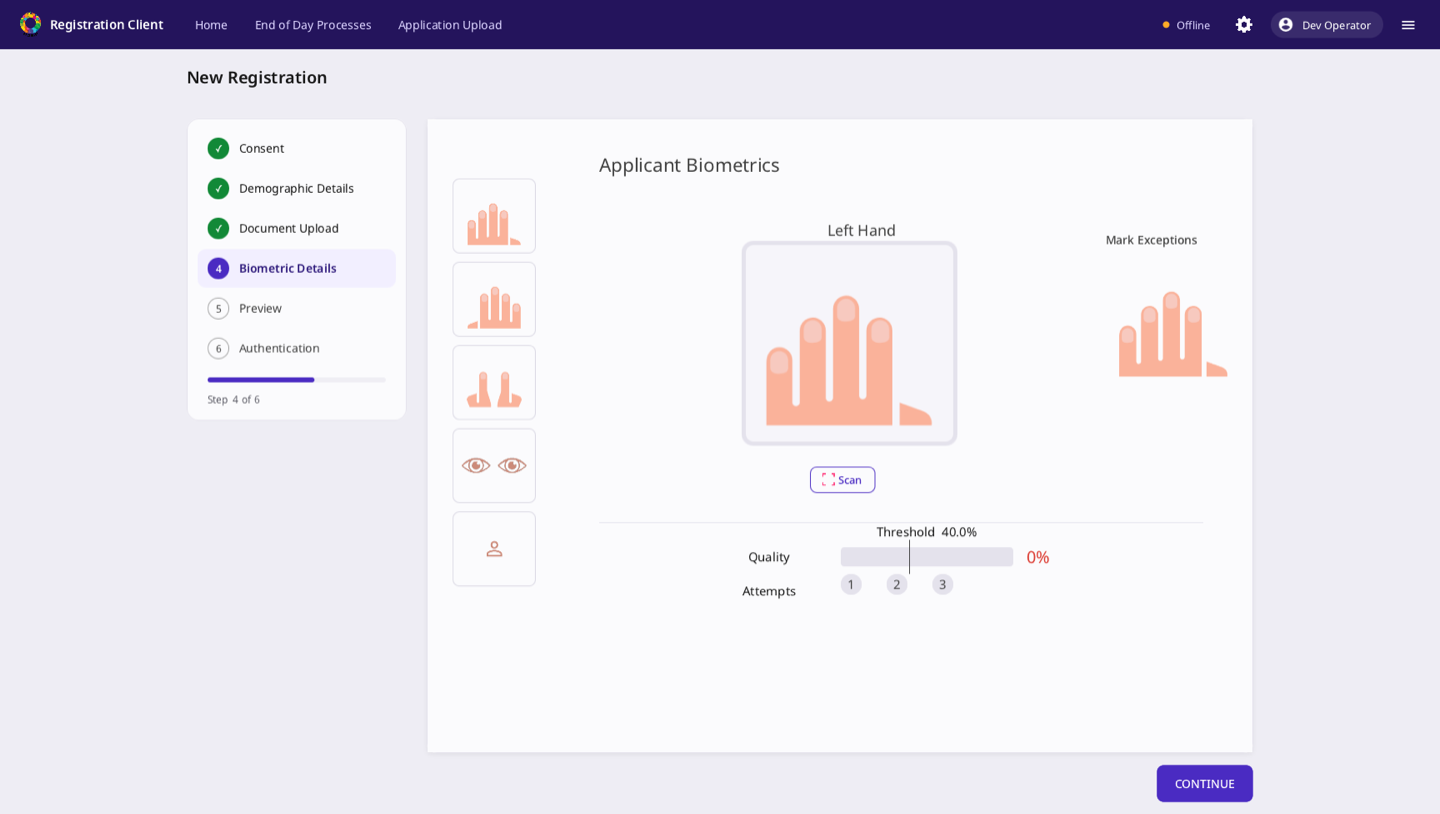
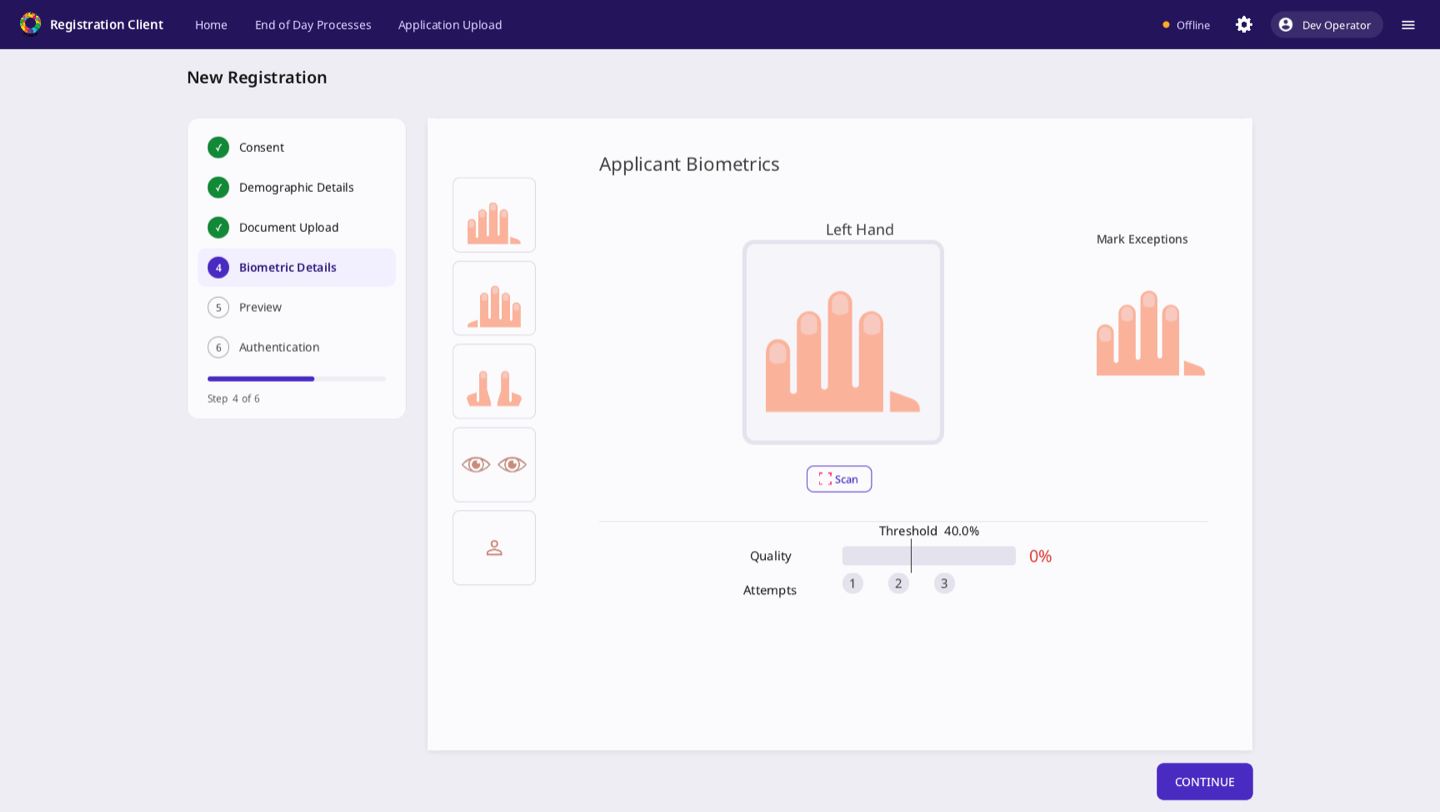
Fit 1280-1366px screens: biometrics capture panel, list tables, review header
Checked the full standard flow at 1280x680, 1366x728 and 1536x824 window
sizes (common registration-station screens minus the Windows taskbar).

- Biometrics capture panel (BiometricsCapture.fxml) was fixed at its
  725px pref width (min = max = pref), so with the modality rail it needed
  ~900px and clipped the exceptions column below ~1366px. It now follows
  the card width; the exceptions column gets 25%.
- Pending approval and re-registration: list / review split 54/46 and
  rebalanced columns so full application ids, dates and every column fit
  at 1280px; the review card header is two rows (id + decision, then date
  / operator + Reject / Approve) so nothing truncates in a narrow card.
- Application upload: wider application id column.
- List table cells 14px.

diff --git a/registration/registration-client/src/main/resources/application.css b/registration/registration-client/src/main/resources/application.css
@@ -4552,8 +4552,8 @@ Working on new Css by taleev
 }
 
 .reviewHeader {
-	-fx-spacing: 12;
-	-fx-padding: 16 20 16 20;
+	-fx-spacing: 8;
+	-fx-padding: 14 20 14 20;
 	-fx-border-color: transparent transparent -mx-border-subtle transparent;
 	-fx-border-width: 0 0 1 0;
 }
@@ -4884,4 +4884,13 @@ Working on new Css by taleev
 .fieldSecondaryLabels > .fieldSecondaryLabel {
 	-fx-font-size: 12px;
 	-fx-text-fill: -mx-text-muted;
+}
+
+/* list tables (approval, upload, re-registration): 14px cells so full application ids fit at 1280px */
+.contentCard .table-view .table-cell {
+	-fx-font-size: 14px;
+}
+
+.reviewHeaderRow {
+	-fx-spacing: 12;
 }

diff --git a/docs/ui-refresh/README.md b/docs/ui-refresh/README.md
@@ -71,6 +71,7 @@ derived from the core MOSIP sample data (`mosip/mosip-data`).
 | Biometric exceptions | Two fingers marked (exception photo required, reviewer authentication by a second supervisor); marked then unmarked (no photo, no reviewer); all fingers and irises marked (scan disabled for those modalities, face + photo) |
 | Biometric login | Fingerprint (left / right slab, thumbs), iris, face, fingerprint + iris + face, face + password; wrong person; no device; modality not enrolled |
 | End of day | Approve, reject with reason, supervisor authentication, decisions persisted |
+| Window sizes | Full standard flow at 1280×680 and 1366×728 (1280×720 / 1366×768 screens minus the Windows taskbar), 1536×824 (1920×1080 at 125% scaling) and 1728×975; every screen fits, long screens scroll |
 
 Biometric devices and the matcher were exercised with a dev-only SBI stand-in (outside this repo) and
 MOSIP's mock SDK; everything above the device layer is the real client.
